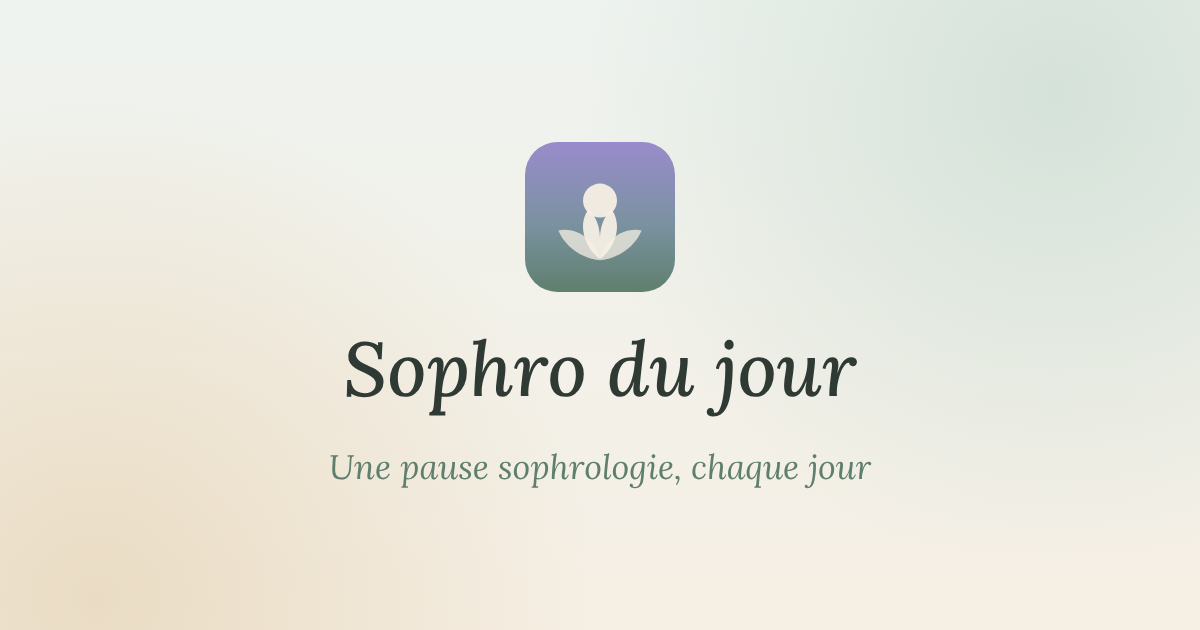
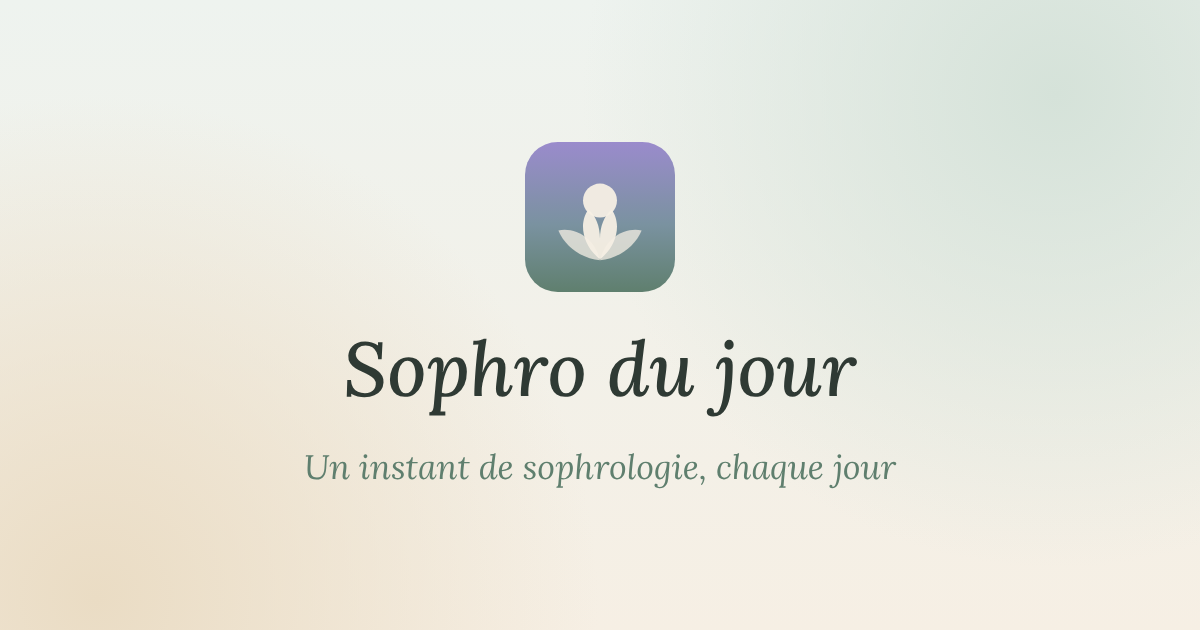
« Instant » remplace « pause » ; même aperçu 1200×630 sur les réseaux pour toutes les publications
Claude-Session: https://claude.ai/code/session_01GGqRrxrVufF2nEipwBSTih

Changed region(s): [[0.2467, 0.7238, 0.74, 0.7841]]

diff --git a/sw.js b/sw.js
@@ -1,5 +1,5 @@
 // Service worker : permet l'installation et l'affichage hors connexion du dernier contenu consulté.
-const VERSION = 'sophro-v3';
+const VERSION = 'sophro-v4';
 const STATIC = ['/', '/assets/style.css', '/assets/app.js', '/assets/icon.svg', '/assets/fonts/Lora.ttf', '/assets/fonts/Lora-Italic.ttf', '/manifest.webmanifest', '/assets/seasons/printemps.svg', '/assets/seasons/ete.svg', '/assets/seasons/automne.svg', '/assets/seasons/hiver.svg'];
 
 self.addEventListener('install', (e) => {
@@ -48,7 +48,7 @@ self.addEventListener('fetch', (e) => {
 // Notification du matin : le serveur envoie un simple signal, on va chercher le contenu du jour.
 self.addEventListener('push', (e) => {
   e.waitUntil((async () => {
-    let d = { title: 'Votre pause du jour est arrivée', body: 'Prenez un instant pour vous.', url: '/' };
+    let d = { title: 'Votre instant du jour est arrivé', body: 'Prenez le temps de respirer.', url: '/' };
     try { d = await (await fetch('/api/today.php', { cache: 'no-store' })).json(); } catch (err) { /* message par défaut */ }
     if (self.navigator.setAppBadge) { try { await self.navigator.setAppBadge(1); } catch (err) {} }
     await self.registration.showNotification(d.title, {

diff --git a/tools/render-images.js b/tools/render-images.js
@@ -19,7 +19,7 @@ const lora = 'data:font/ttf;base64,' + fs.readFileSync(path.join(A, 'fonts/Lora-
     body{width:1200px;height:630px;display:flex;flex-direction:column;align-items:center;justify-content:center;gap:28px;
     background:radial-gradient(circle at 88% 15%,#d5e2d9,transparent 40%),radial-gradient(circle at 8% 95%,#eadcc4,transparent 40%),linear-gradient(#eef3ef,#f6efe4);
     font-family:L,serif;color:#2f3a34}svg{width:150px;height:150px}h1{font-size:76px;margin:0;font-weight:500}p{font-size:34px;margin:0;color:#5f7f6e}</style>
-    ${svg}<h1>Sophro du jour</h1><p>Une pause sophrologie, chaque jour</p>`);
+    ${svg}<h1>Sophro du jour</h1><p>Un instant de sophrologie, chaque jour</p>`);
   await p.screenshot({ path: path.join(A, 'og-default.png') });
   await b.close();
 })();

diff --git a/admin/edit.php b/admin/edit.php
@@ -13,7 +13,7 @@ $id = (int) ($_GET['id'] ?? $_POST['id'] ?? 0);
 $c = $id ? get_content($id) : null;
 if ($id && !$c) {
     http_response_code(404);
-    exit('Pause introuvable.');
+    exit('Instant introuvable.');
 }
 $c = $c ?? [
     'id' => 0, 'title' => '', 'body' => '', 'image' => null, 'audio' => null,
@@ -72,7 +72,7 @@ if ($_SERVER['REQUEST_METHOD'] === 'POST') {
             $new['audio'] = $uploadedAudio;
         }
         if ($new['title'] === '' && $new['body'] === '' && !$new['image'] && !$new['audio']) {
-            throw new RuntimeException('La pause est vide : ajoutez au moins un texte, une image ou un audio.');
+            throw new RuntimeException('L’instant est vide : ajoutez au moins un texte, une image ou un audio.');
         }
 
         $cols = ['title', 'body', 'image', 'audio', 'mode', 'publish_date', 'yearly_start', 'yearly_end', 'active'];
@@ -114,7 +114,7 @@ function md_select(string $prefix, ?string $md): string
     return $out . '</select>';
 }
 
-page_head(['title' => $c['id'] ? 'Modifier la pause' : 'Nouvelle pause', 'noindex' => true], 'admin');
+page_head(['title' => $c['id'] ? 'Modifier l’instant' : 'Nouvel instant', 'noindex' => true], 'admin');
 ?>
 <header class="site-header">
   <a href="/admin/" class="brand"><img src="/assets/icon.svg" alt="" width="36" height="36"><span>Administration</span></a>
@@ -122,7 +122,7 @@ page_head(['title' => $c['id'] ? 'Modifier la pause' : 'Nouvelle pause', 'noinde
 </header>
 
 <main class="wrap">
-  <h1 class="admin-title"><?= $c['id'] ? 'Modifier la pause' : 'Nouvelle pause' ?></h1>
+  <h1 class="admin-title"><?= $c['id'] ? 'Modifier l’instant' : 'Nouvel instant' ?></h1>
   <?php if ($error): ?><p class="alert error"><?= h($error) ?></p><?php endif ?>
 
   <form method="post" enctype="multipart/form-data" class="form card" id="edit-form"><div class="card-body">
@@ -163,7 +163,7 @@ page_head(['title' => $c['id'] ? 'Modifier la pause' : 'Nouvelle pause', 'noinde
         </div>
         <div class="rec-result" hidden>
           <audio controls></audio>
-          <p class="small"><span class="rec-ok">✔ Cet enregistrement sera ajouté à la pause quand vous cliquerez sur « Enregistrer » en bas.</span>
+          <p class="small"><span class="rec-ok">✔ Cet enregistrement sera ajouté à l’instant quand vous cliquerez sur « Enregistrer » en bas.</span>
             <button type="button" class="linkish" data-rec="restart">Recommencer</button></p>
         </div>
         <p class="alert error rec-error" hidden></p>
@@ -175,15 +175,15 @@ page_head(['title' => $c['id'] ? 'Modifier la pause' : 'Nouvelle pause', 'noinde
     <fieldset class="modes">
       <legend>Quand le montrer ?</legend>
       <label class="radio"><input type="radio" name="mode" value="auto" <?= $c['mode'] === 'auto' ? 'checked' : '' ?>>
-        <span><strong>Au hasard</strong><br><small>Elle pourra être tirée au sort les jours sans pause prévue.</small></span></label>
+        <span><strong>Au hasard</strong><br><small>Il pourra être tiré au sort les jours sans instant prévu.</small></span></label>
       <label class="radio"><input type="radio" name="mode" value="date" <?= $c['mode'] === 'date' ? 'checked' : '' ?>>
-        <span><strong>À une date précise</strong><br><small>Montrée ce jour-là, puis elle rejoint les pauses tirées au hasard.</small></span></label>
+        <span><strong>À une date précise</strong><br><small>Montré ce jour-là, puis il rejoint les instants tirés au hasard.</small></span></label>
       <div class="mode-opts" data-for="date">
         <input type="date" name="publish_date" value="<?= h($c['publish_date'] ?? date('Y-m-d', strtotime('+1 day'))) ?>">
         <label class="inline"><input type="checkbox" name="repeat"> Répéter chaque année à cette date <span class="muted">(anniversaire, fête…)</span></label>
       </div>
       <label class="radio"><input type="radio" name="mode" value="yearly" <?= $c['mode'] === 'yearly' ? 'checked' : '' ?>>
-        <span><strong>Chaque année</strong><br><small>Un jour précis (anniversaire, 25 décembre…) ou une période (printemps, Noël…). Jamais tirée au hasard en dehors de ces dates.</small></span></label>
+        <span><strong>Chaque année</strong><br><small>Un jour précis (anniversaire, 25 décembre…) ou une période (printemps, Noël…). Jamais tiré au hasard en dehors de ces dates.</small></span></label>
       <div class="mode-opts" data-for="yearly">
         <div class="presets">
           <button type="button" data-preset="12-25,12-25">Jour de Noël</button>
@@ -210,11 +210,11 @@ page_head(['title' => $c['id'] ? 'Modifier la pause' : 'Nouvelle pause', 'noinde
   </div></form>
 
   <?php if ($c['id']): ?>
-    <form method="post" class="delete-form" onsubmit="return confirm('Supprimer définitivement cette pause ?')">
+    <form method="post" class="delete-form" onsubmit="return confirm('Supprimer définitivement cet instant ?')">
       <?= csrf_field() ?>
       <input type="hidden" name="id" value="<?= (int) $c['id'] ?>">
       <input type="hidden" name="action" value="delete">
-      <button class="btn btn-danger">Supprimer cette pause</button>
+      <button class="btn btn-danger">Supprimer cet instant</button>
     </form>
   <?php endif ?>
 </main>

diff --git a/admin/index.php b/admin/index.php
@@ -110,14 +110,14 @@ page_head(['title' => 'Administration', 'noindex' => true], 'admin');
 </header>
 
 <main class="wrap wide">
-  <?php if (isset($_GET['welcome'])): ?><p class="alert ok">Mot de passe créé ✔ Vous pouvez maintenant ajouter vos pauses.</p><?php endif ?>
+  <?php if (isset($_GET['welcome'])): ?><p class="alert ok">Mot de passe créé ✔ Vous pouvez maintenant ajouter vos instants.</p><?php endif ?>
   <?php if (isset($_GET['pw'])): ?><p class="alert ok">Mot de passe modifié ✔</p><?php endif ?>
   <?php if (isset($_GET['ok'])): ?><p class="alert ok">Enregistré ✔</p><?php endif ?>
-  <?php if (isset($_GET['deleted'])): ?><p class="alert ok">Pause supprimée.</p><?php endif ?>
+  <?php if (isset($_GET['deleted'])): ?><p class="alert ok">Instant supprimé.</p><?php endif ?>
 
   <div class="admin-grid">
     <section>
-      <h2>La pause d'aujourd'hui, <?= h(date_fr($today)) ?></h2>
+      <h2>L’instant d’aujourd’hui, <?= h(date_fr($today)) ?></h2>
       <?php if ($todayContent): ?>
         <?= render_content($todayContent) ?>
         <div class="actions">
@@ -125,7 +125,7 @@ page_head(['title' => 'Administration', 'noindex' => true], 'admin');
           <a class="btn btn-ghost" href="/admin/edit.php?id=<?= (int) $todayContent['id'] ?>">Modifier</a>
         </div>
       <?php else: ?>
-        <p class="muted">Aucune pause pour l'instant. Créez la première !</p>
+        <p class="muted">Aucun instant pour le moment. Créez le premier !</p>
       <?php endif ?>
 
       <h2>Les 14 prochains jours</h2>
@@ -134,7 +134,7 @@ page_head(['title' => 'Administration', 'noindex' => true], 'admin');
           <li class="up-<?= $uc ? h($uc['mode']) : 'auto' ?>">
             <span class="up-day"><?= h(date_fr($d)) ?></span>
             <?php if (!$uc): ?>
-              <span class="muted">Aucune pause disponible</span>
+              <span class="muted">Aucun instant disponible</span>
             <?php else: ?>
               <div class="up-content">
                 <a href="/admin/edit.php?id=<?= (int) $uc['id'] ?>" class="up-title"><?= h(content_label($uc)) ?></a>
@@ -153,8 +153,8 @@ page_head(['title' => 'Administration', 'noindex' => true], 'admin');
 
     <section>
       <div class="list-head">
-        <h2>Mes pauses (<?= (int) $counts['total'] ?>)</h2>
-        <span><a class="btn btn-ghost" href="/admin/import.php">Importer</a> <a class="btn" href="/admin/edit.php">+ Nouvelle pause</a></span>
+        <h2>Mes instants (<?= (int) $counts['total'] ?>)</h2>
+        <span><a class="btn btn-ghost" href="/admin/import.php">Importer</a> <a class="btn" href="/admin/edit.php">+ Nouvel instant</a></span>
       </div>
       <nav class="filters">
         <?php foreach (['all' => 'Tous', 'auto' => 'Au hasard', 'date' => 'Date précise', 'yearly' => 'Chaque année', 'draft' => 'Brouillons'] as $k => $lbl): ?>
@@ -172,7 +172,7 @@ page_head(['title' => 'Administration', 'noindex' => true], 'admin');
               <a href="/admin/edit.php?id=<?= (int) $c['id'] ?>" class="info-title"><?= h(content_label($c)) ?></a>
               <span class="badge mode-<?= h($c['mode']) ?>"><?= h(mode_label($c)) ?></span>
               <?php if (!$c['active']): ?><span class="badge draft">Brouillon</span><?php endif ?>
-              <span class="muted small"><?= $c['shown'] ? 'Montrée ' . (int) $c['shown'] . ' fois, dernière fois le ' . h(date_fr((string) $c['last_shown'], false, true)) : 'Jamais montrée' ?></span>
+              <span class="muted small"><?= $c['shown'] ? 'Montré ' . (int) $c['shown'] . ' fois, dernière fois le ' . h(date_fr((string) $c['last_shown'], false, true)) : 'Jamais montré' ?></span>
             </div>
             <div class="row-actions">
               <?php if (is_public($c)): ?><?= share_button($c, '', 'icon-btn') ?><?php endif ?>

diff --git a/og.php b/og.php
@@ -14,17 +14,20 @@ if (!$c || !is_public($c) || !function_exists('imagettftext')) {
     exit;
 }
 
-$jpg = ($_GET['format'] ?? '') === 'jpg';
-$ext = $jpg ? 'jpg' : 'png';
+$jpg = ($_GET['format'] ?? '') === 'jpg';   // carré/Instagram ; sinon aperçu large 1200×630
+$ext = $jpg ? 'jpg' : 'og.jpg';
 $cacheDir = ROOT . '/uploads/og';
-$cacheFile = $cacheDir . '/' . (int) $c['id'] . '-' . md5($c['updated_at'] . $c['title'] . $c['body'] . $c['image']) . '.' . $ext;
+$hash = md5($c['updated_at'] . $c['title'] . $c['body'] . $c['image']);
+$cacheFile = $cacheDir . '/' . (int) $c['id'] . '-' . $hash . '.' . $ext;
 
 if (!is_file($cacheFile)) {
     if (!is_dir($cacheDir)) {
         mkdir($cacheDir, 0775, true);
     }
-    foreach (glob($cacheDir . '/' . (int) $c['id'] . '-*.' . $ext) ?: [] as $old) {
-        @unlink($old);
+    foreach (glob($cacheDir . '/' . (int) $c['id'] . '-*') ?: [] as $old) {
+        if (!str_contains($old, $hash)) {
+            @unlink($old); // anciennes versions de l'image
+        }
     }
 }
 
@@ -46,6 +49,41 @@ if (!is_file($cacheFile) && $jpg && $c['image']) {
         imagefill($dst, 0, 0, imagecolorallocate($dst, 255, 255, 255));
         imagecopyresampled($dst, $src, 0, 0, (int) (($w - $cw) / 2), (int) (($hh - $ch) / 2), imagesx($dst), imagesy($dst), $cw, $ch);
         imagejpeg($dst, $cacheFile, 88);
+    }
+}
+
+if (!is_file($cacheFile) && !$jpg && $c['image']) {
+    // Aperçu des liens partagés : la photo recadrée au même format 1200×630 que les instants texte,
+    // avec le titre sur un léger voile en bas.
+    $src = @imagecreatefromstring((string) file_get_contents(ROOT . '/uploads/' . $c['image']));
+    if ($src) {
+        $W = 1200;
+        $H = 630;
+        $w = imagesx($src);
+        $hh = imagesy($src);
+        $scale = max($W / $w, $H / $hh);
+        $cw = (int) round($W / $scale);
+        $ch = (int) round($H / $scale);
+        $img = imagecreatetruecolor($W, $H);
+        imagecopyresampled($img, $src, 0, 0, (int) (($w - $cw) / 2), (int) (($hh - $ch) / 2), $W, $H, $cw, $ch);
+        $font = ROOT . '/assets/fonts/Lora.ttf';
+        $label = trim((string) $c['title']) !== '' ? trim((string) $c['title']) : excerpt((string) $c['body'], 70);
+        $band = 150;
+        for ($y = 0; $y < $band; $y++) {
+            $a = (int) (127 - 85 * ($y / $band));           // dégradé transparent → voile sombre
+            imageline($img, 0, $H - $band + $y, $W, $H - $band + $y, imagecolorallocatealpha($img, 30, 26, 45, $a));
+        }
+        $white = imagecolorallocate($img, 255, 255, 255);
+        $soft = imagecolorallocatealpha($img, 255, 255, 255, 30);
+        if ($label !== '') {
+            $size = mb_strlen($label) > 45 ? 28 : 36;
+            $box = imagettfbbox($size, 0, $font, $label);
+            imagettftext($img, $size, 0, (int) (($W - ($box[2] - $box[0])) / 2), $H - 62, $white, $font, $label);
+        }
+        $brand = (string) cfg('site_name') . '  ·  ' . parse_url(base_url(), PHP_URL_HOST);
+        $box = imagettfbbox(17, 0, $font, $brand);
+        imagettftext($img, 17, 0, (int) (($W - ($box[2] - $box[0])) / 2), $H - 24, $soft, $font, $brand);
+        imagejpeg($img, $cacheFile, 88);
     }
 }
 
@@ -105,9 +143,9 @@ if (!is_file($cacheFile)) {
     $brand = (string) cfg('site_name') . '  ·  ' . parse_url(base_url(), PHP_URL_HOST);
     $box = imagettfbbox(20, 0, $font, $brand);
     imagettftext($img, 20, 0, (int) (($W - ($box[2] - $box[0])) / 2), $H - 40, $green, $font, $brand);
-    $jpg ? imagejpeg($img, $cacheFile, 90) : imagepng($img, $cacheFile, 6);
+    imagejpeg($img, $cacheFile, 90);
 }
 
-header('Content-Type: image/' . ($jpg ? 'jpeg' : 'png'));
+header('Content-Type: image/jpeg');
 header('Cache-Control: public, max-age=86400');
 readfile($cacheFile);

diff --git a/admin/import.php b/admin/import.php
@@ -155,19 +155,19 @@ if ($_SERVER['REQUEST_METHOD'] === 'POST') {
     }
 }
 
-page_head(['title' => 'Importer des pauses', 'noindex' => true], 'admin');
+page_head(['title' => 'Importer des instants', 'noindex' => true], 'admin');
 ?>
 <header class="site-header">
   <a href="/admin/" class="brand"><img src="/assets/icon.svg" alt="" width="36" height="36"><span>Administration</span></a>
   <nav><a href="/admin/">← Retour</a></nav>
 </header>
 <main class="wrap">
-  <h1 class="admin-title">Importer des pauses</h1>
+  <h1 class="admin-title">Importer des instants</h1>
   <?php if ($error): ?><p class="alert error"><?= h($error) ?></p><?php endif ?>
   <?php if ($report): ?>
     <p class="alert ok">
-      <strong><?= $report['added'] ?></strong> pause(s) ajoutée(s).
-      <?php if ($report['dupes']): ?><?= $report['dupes'] ?> déjà présente(s), ignorée(s).<?php endif ?>
+      <strong><?= $report['added'] ?></strong> instant(s) ajouté(s).
+      <?php if ($report['dupes']): ?><?= $report['dupes'] ?> déjà présent(s), ignoré(s).<?php endif ?>
       <?php if ($report['empty']): ?><?= $report['empty'] ?> ligne(s) vide(s).<?php endif ?>
       <a href="/admin/">Voir la liste →</a>
     </p>
@@ -194,7 +194,7 @@ page_head(['title' => 'Importer des pauses', 'noindex' => true], 'admin');
       <li><strong>date</strong> : pour <em>date</em>, au format JJ/MM/AAAA ; pour <em>chaque année</em> sur un seul jour, JJ/MM (ex. 25/12) ;</li>
       <li><strong>debut</strong> et <strong>fin</strong> : pour <em>chaque année</em> sur une période, au format JJ/MM (ex. 18/12 et 26/12).</li>
     </ul>
-    <p class="muted">Une pause qui existe déjà (même titre et même texte) n'est pas importée une deuxième fois : vous pouvez réimporter le même fichier sans risque.</p>
+    <p class="muted">Un instant qui existe déjà (même titre et même texte) n'est pas importé une deuxième fois : vous pouvez réimporter le même fichier sans risque.</p>
   </div></section>
 </main>
 <?php page_foot();

diff --git a/admin/social.php b/admin/social.php
@@ -30,7 +30,7 @@ if ($_SERVER['REQUEST_METHOD'] === 'POST') {
         $msg = 'Réglages enregistrés ✔';
     } elseif (($_POST['action'] ?? '') === 'post_now') {
         $c = content_for_day(date('Y-m-d'));
-        $result = $c ? post_to_socials($c) : ['Aucune pause aujourd\'hui.'];
+        $result = $c ? post_to_socials($c) : ['Aucun instant aujourd\'hui.'];
     }
 }
 
@@ -59,7 +59,7 @@ page_head(['title' => 'Réseaux sociaux', 'noindex' => true], 'admin');
     <?= csrf_field() ?>
     <input type="hidden" name="action" value="save">
     <h2>Publication automatique</h2>
-    <p class="muted small">Chaque matin, la pause du jour est publiée sur les réseaux cochés ci-dessous (texte + image ; pour un texte seul, une image est créée automatiquement).</p>
+    <p class="muted small">Chaque matin, l’instant du jour est publié sur les réseaux cochés ci-dessous (texte + image ; pour un texte seul, une image est créée automatiquement).</p>
 
     <fieldset>
       <legend>Page Facebook</legend>
@@ -87,10 +87,10 @@ page_head(['title' => 'Réseaux sociaux', 'noindex' => true], 'admin');
     <div class="actions"><button class="btn">Enregistrer</button></div>
   </div></form>
 
-  <form method="post" class="center" onsubmit="return confirm('Publier maintenant la pause du jour sur les réseaux activés ?')">
+  <form method="post" class="center" onsubmit="return confirm('Publier maintenant l’instant du jour sur les réseaux activés ?')">
     <?= csrf_field() ?>
     <input type="hidden" name="action" value="post_now">
-    <button class="btn btn-ghost">Publier la pause du jour maintenant</button>
+    <button class="btn btn-ghost">Publier l’instant du jour maintenant</button>
   </form>
 
   <?php if ($log): ?>

diff --git a/lib/layout.php b/lib/layout.php
@@ -26,6 +26,7 @@ function page_head(array $meta = [], string $bodyClass = ''): void
 <meta property="og:description" content="<?= h($desc) ?>">
 <meta property="og:url" content="<?= h($url) ?>">
 <meta property="og:image" content="<?= h($image) ?>">
+<?php if (str_contains($image, '/og.php')): ?><meta property="og:image:type" content="image/jpeg"><meta property="og:image:width" content="1200"><meta property="og:image:height" content="630"><?php endif ?>
 <?php if (!empty($meta['audio'])): ?><meta property="og:audio" content="<?= h($meta['audio']) ?>"><?php endif ?>
 <meta name="twitter:card" content="summary_large_image">
 <meta name="theme-color" content="#5f7f6e">
@@ -142,8 +143,6 @@ function render_content(array $c): string
 /** Image Open Graph : l'image du contenu, ou une carte générée avec le texte. */
 function og_image_url(array $c): string
 {
-    if ($c['image']) {
-        return base_url() . media_url($c['image']);
-    }
+    // Tous les instants (texte, image, audio) ont le même aperçu 1200×630 sur les réseaux sociaux
     return base_url() . '/og.php?p=' . (int) $c['id'] . '&v=' . substr(md5($c['updated_at']), 0, 6);
 }

diff --git a/index.php b/index.php
@@ -53,18 +53,18 @@ page_head($meta, 'public');
 
 <main class="wrap">
   <p class="today-label">
-    <?= $isPermalink ? 'Une pause partagée avec vous' : 'La pause du jour · ' . h(date_fr($today)) ?>
+    <?= $isPermalink ? 'Un instant partagé avec vous' : 'L’instant du jour · ' . h(date_fr($today)) ?>
   </p>
 
   <?php if ($c): ?>
     <?= render_content($c) ?>
     <div class="actions">
       <?= share_button($c) ?>
-      <?php if ($isPermalink): ?><a class="btn btn-ghost" href="/">Voir la pause du jour</a><?php endif ?>
+      <?php if ($isPermalink): ?><a class="btn btn-ghost" href="/">Voir l’instant du jour</a><?php endif ?>
     </div>
   <?php else: ?>
     <article class="card text-only"><div class="card-body">
-      <div class="card-text">Prenez un instant pour respirer profondément… La première pause arrive très bientôt.</div>
+      <div class="card-text">Prenez le temps de respirer profondément… Le premier instant arrive très bientôt.</div>
     </div></article>
   <?php endif ?>
 

diff --git a/api/today.php b/api/today.php
@@ -12,11 +12,11 @@ $c = content_for_day(date('Y-m-d'));
 $kind = $c ? content_kind($c) : 'texte';
 echo json_encode([
     'title' => match ($kind) {
-        'audio' => 'Votre pause du jour : une mini-séance',
-        'image' => 'Votre pause du jour est arrivée',
-        default => 'Votre pause du jour est arrivée',
+        'audio' => 'Votre instant du jour : une mini-séance',
+        'image' => 'Votre instant du jour est arrivé',
+        default => 'Votre instant du jour est arrivé',
     },
-    'body'  => $c ? (trim((string) $c['title']) !== '' ? $c['title'] : excerpt((string) $c['body'], 120)) : 'Prenez un instant pour vous.',
+    'body'  => $c ? (trim((string) $c['title']) !== '' ? $c['title'] : excerpt((string) $c['body'], 120)) : 'Prenez le temps de respirer.',
     'image' => $c && $c['image'] ? media_url($c['image']) : null,
     'url'   => '/?source=notification',
 ], JSON_UNESCAPED_UNICODE | JSON_UNESCAPED_SLASHES);

diff --git a/lib/social.php b/lib/social.php
@@ -63,7 +63,7 @@ function post_instagram(array $c): string
     $ig = trim((string) setting('ig_user_id'));
     $token = trim((string) setting('fb_token'));
     // Instagram n'affiche pas les liens cliquables dans les légendes : on renvoie vers le lien du profil.
-    $caption = social_caption($c) . "\n\n✨ Retrouvez chaque jour une pause sophrologie : lien dans la bio.";
+    $caption = social_caption($c) . "\n\n✨ Retrouvez chaque jour un instant de sophrologie : lien dans la bio.";
     $media = graph_post("$ig/media", ['image_url' => social_image_url($c), 'caption' => $caption, 'access_token' => $token]);
     // Instagram traite l'image quelques secondes avant de pouvoir la publier
     $last = null;

diff --git a/lib/bootstrap.php b/lib/bootstrap.php
@@ -9,7 +9,7 @@ define('ROOT', dirname(__DIR__));
 $__cfgFile = ROOT . '/config.local.php';
 $GLOBALS['CONFIG'] = array_merge([
     'site_name'           => 'Sophro du jour',
-    'site_tagline'        => 'Une pause sophrologie, chaque jour',
+    'site_tagline'        => 'Un instant de sophrologie, chaque jour',
     'site_url'            => '',      // ex. https://sophro.schwaller.fr (détecté automatiquement si vide)
     'notify_label'        => '7 h 30',   // heure affichée sur le bouton de notification (l'heure réelle est celle de la tâche cron)
     'admin_password_hash' => '',      // facultatif : sinon le mot de passe est créé depuis /admin/ et stocké en base
